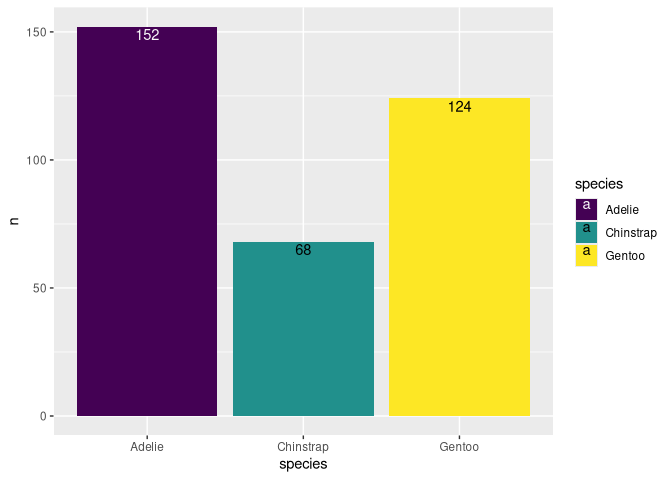
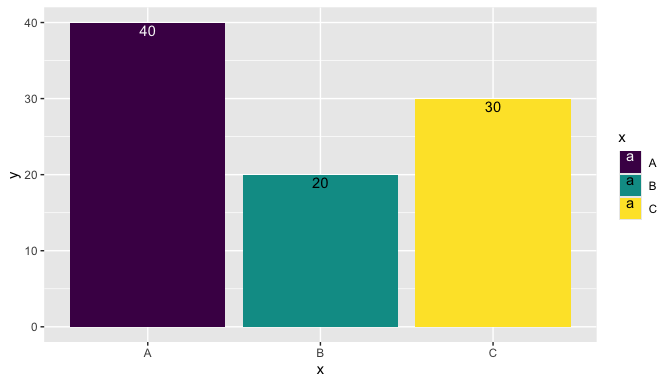
Complete draft of README

diff --git a/README.md b/README.md
@@ -16,8 +16,9 @@ sampling colors, and displaying colors visually as plotted cells or
 printed console output.
 
 This package is meant to complement and not compete with excellent
-packages like scales and farver that provide robust color manipulation
-tools.
+packages like [scales](https://scales.r-lib.org/) and
+[farver](https://farver.data-imaginist.com/) that provide robust color
+manipulation tools.
 
 ## Installation
 
@@ -54,12 +55,10 @@ plot_color(list(
 ))
 ```
 
-<img src="man/figures/README-plot-color-1.png" alt="" width="100%" />
+<img src="man/figures/README-plot-color-1.png" alt="" width="80%" />
 
 And here are the same palettes printed to the console with
-`print_color()`. For `print_color()` to work best, your console must
-support 24-bit colors; that way it can display all 256^3 colors in the
-hex RGB color space (i.e., colors of the form `"#rrggbb"`).
+`print_color()`.
 
 ``` r
 print_color(list(
@@ -68,31 +67,86 @@ print_color(list(
 ))
 ```
 
-<img src="man/figures/README-/print-color.svg" alt="" width="100%" />
+<img src="man/figures/README-/print-color.svg" alt="" width="80%" />
+
+For `print_color()` to work best, your console must support 24-bit
+colors; that way it can display all 256<sup>3</sup> colors in the hex
+RGB color space (i.e., colors of the form `"#rrggbb"`). If your console
+does not support that many colors, then it may (depending on your
+platform) map each specified color to the closest printable color.
+`print_color()` is indebted to the [cli package](https://cli.r-lib.org/)
+for color printing in the console.
 
 ## Selecting contrasting foreground colors
 
 In the above examples, note that some color codes are printed in black
 (like `#FFFF00`) while others are printed in white (`#0000FF`). The text
 colors were chosen by `bg2fg()` to provide good contrast with the
-background, according to the methods defined by WCAG 2.x
-(<https://www.w3.org/WAI/GL/wiki/Contrast_ratio>,
-<https://www.w3.org/WAI/GL/wiki/Relative_luminance>).
+background, according to the methods defined by WCAG 2.x ([contrast
+ratio](https://www.w3.org/WAI/GL/wiki/Contrast_ratio), [relative
+luminance](https://www.w3.org/WAI/GL/wiki/Relative_luminance)).
 
 You can easily use `bg2fg()` for your own displays. Here’s an example of
 putting text within the bars of a bar plot:
 
 ``` r
 library(ggplot2)
-bg <- scales::pal_viridis()(3)
 
-penguins |>
-  dplyr::count(species) |>
-  ggplot(aes(species, n, fill = species)) +
-  geom_col() +
-  geom_text(aes(label = n, color = species), vjust = 1.2) +
+data <- data.frame(x = LETTERS[1:3], y = c(40, 20, 30))
+bg <- hcl.colors(3)
+
+ggplot(data, aes(x, y)) +
+  geom_col(aes(fill = x)) +
+  geom_text(aes(label = y, color = x), vjust = 1.2) +
   scale_fill_manual(values = bg) +
   scale_color_manual(values = bg2fg(bg))
 ```
 
-<img src="man/figures/README-bg2fg-1.png" alt="" width="100%" />
+<img src="man/figures/README-bg2fg-1.png" alt="" width="80%" />
+
+## Converting colors to hexadecimal strings
+
+Occasionally it is useful to standardize the various R color
+specifications into hex strings. `col2hex()` does this, converting all
+colors to uppercase hex strings with either 6 or 8 hex digits, depending
+for each color on whether it’s opaque.
+
+``` r
+col2hex(c("red", "#fac", "1", "transparent"))
+#> [1] "#FF0000"   "#FFAACC"   "#000000"   "#FFFFFF00"
+```
+
+Some use cases for this are:
+
+1.  When programmatically creating HTML/CSS code in R, you can use R
+    color specifications to create HTML/CSS colors. E.g., “violetred” is
+    a valid color name in R but not in HTML/CSS, so you could generate
+    code like
+    `sprintf("<div style='background:%s;'></div>", col2hex("violetred"))`.
+
+2.  With the `grid` package, the drawing of raster objects can be sped
+    up by first converting them to hex strings. See the `col2hex()` help
+    page for an example.
+
+`col2hex()` is indebted to the [farver
+package](https://farver.data-imaginist.com/) for color conversion.
+
+## Randomly sampling colors
+
+`rand_color()` generates a random sample of R color strings. When the
+parameter `hex` is `TRUE`, the sampling is uniformly distributed over
+the RGB(A) color space. When `hex` is `FALSE`, sampling is uniformly
+distributed over distinct R color names. When `hex` is between 0 and 1,
+the sampling distribution is a mixture of those two uniform
+distributions. By default, `hex` is 0.5.
+
+`rand_color()` proved useful to the colorkit package author when testing
+the package’s other functions. Here’s hoping it will prove useful to
+someone else too.
+
+``` r
+set.seed(123)
+rand_color(24) |> matrix(ncol = 4) |> print_color()
+```
+
+<img src="man/figures/README-/rand-color.svg" alt="" width="80%" />
